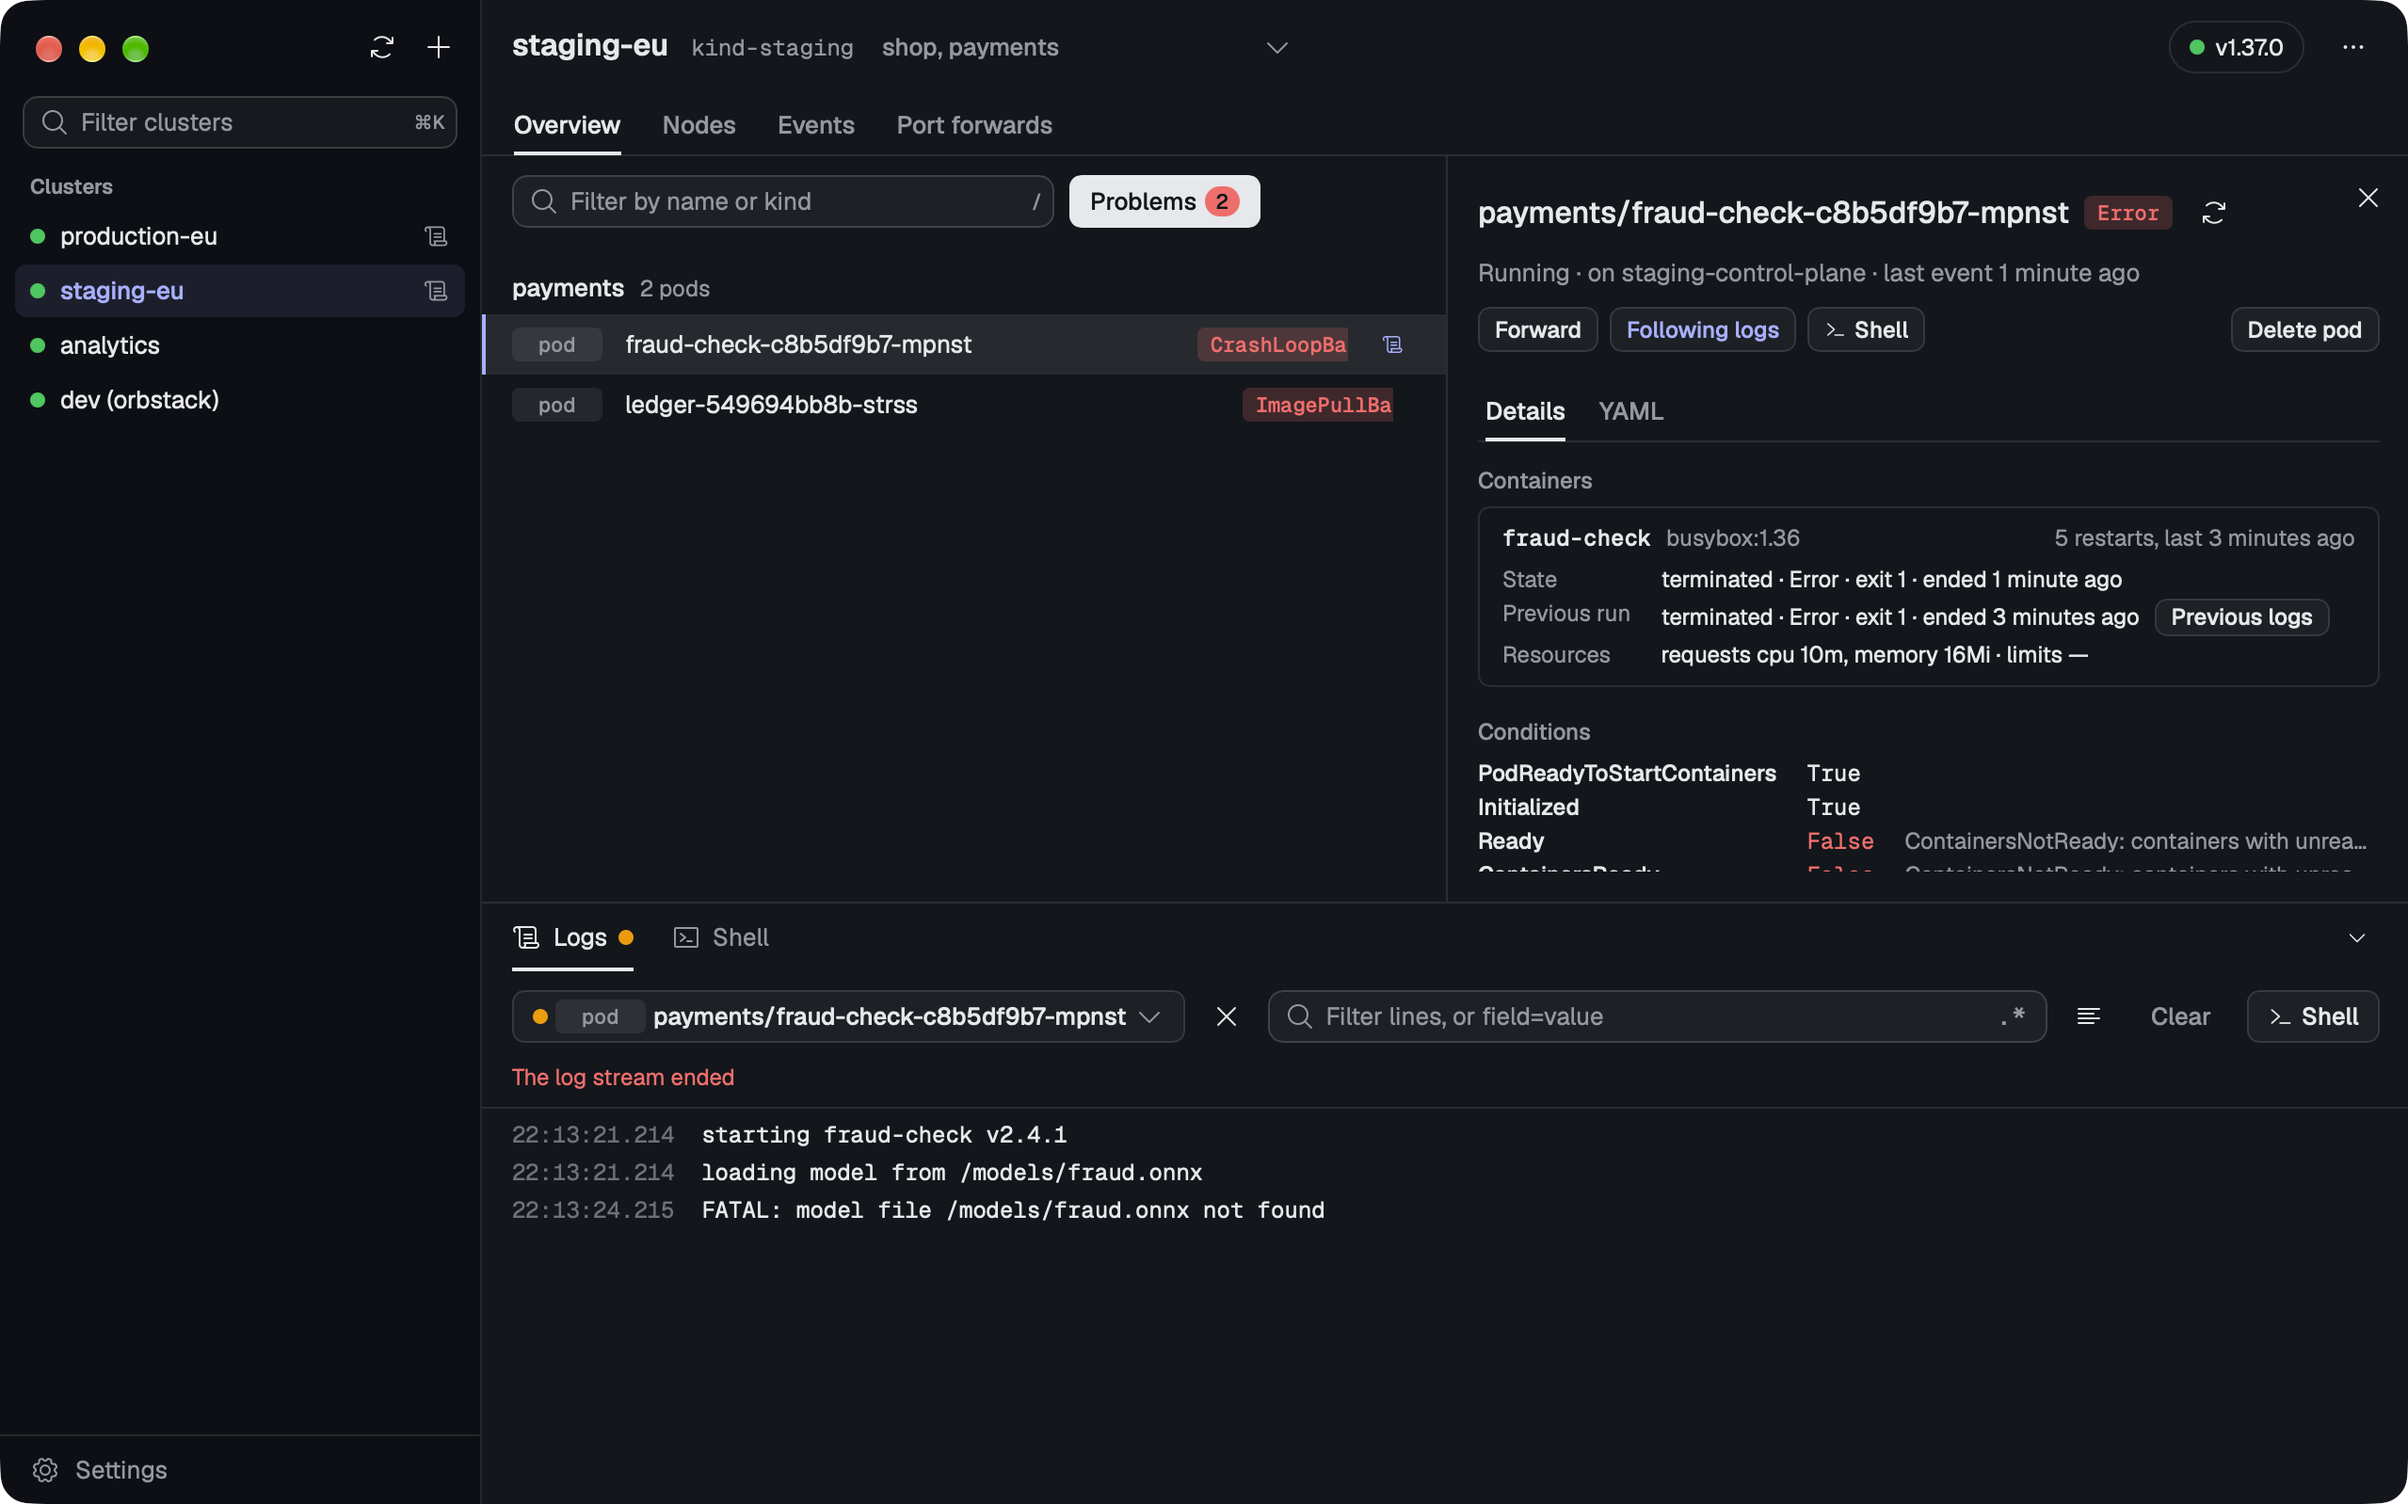
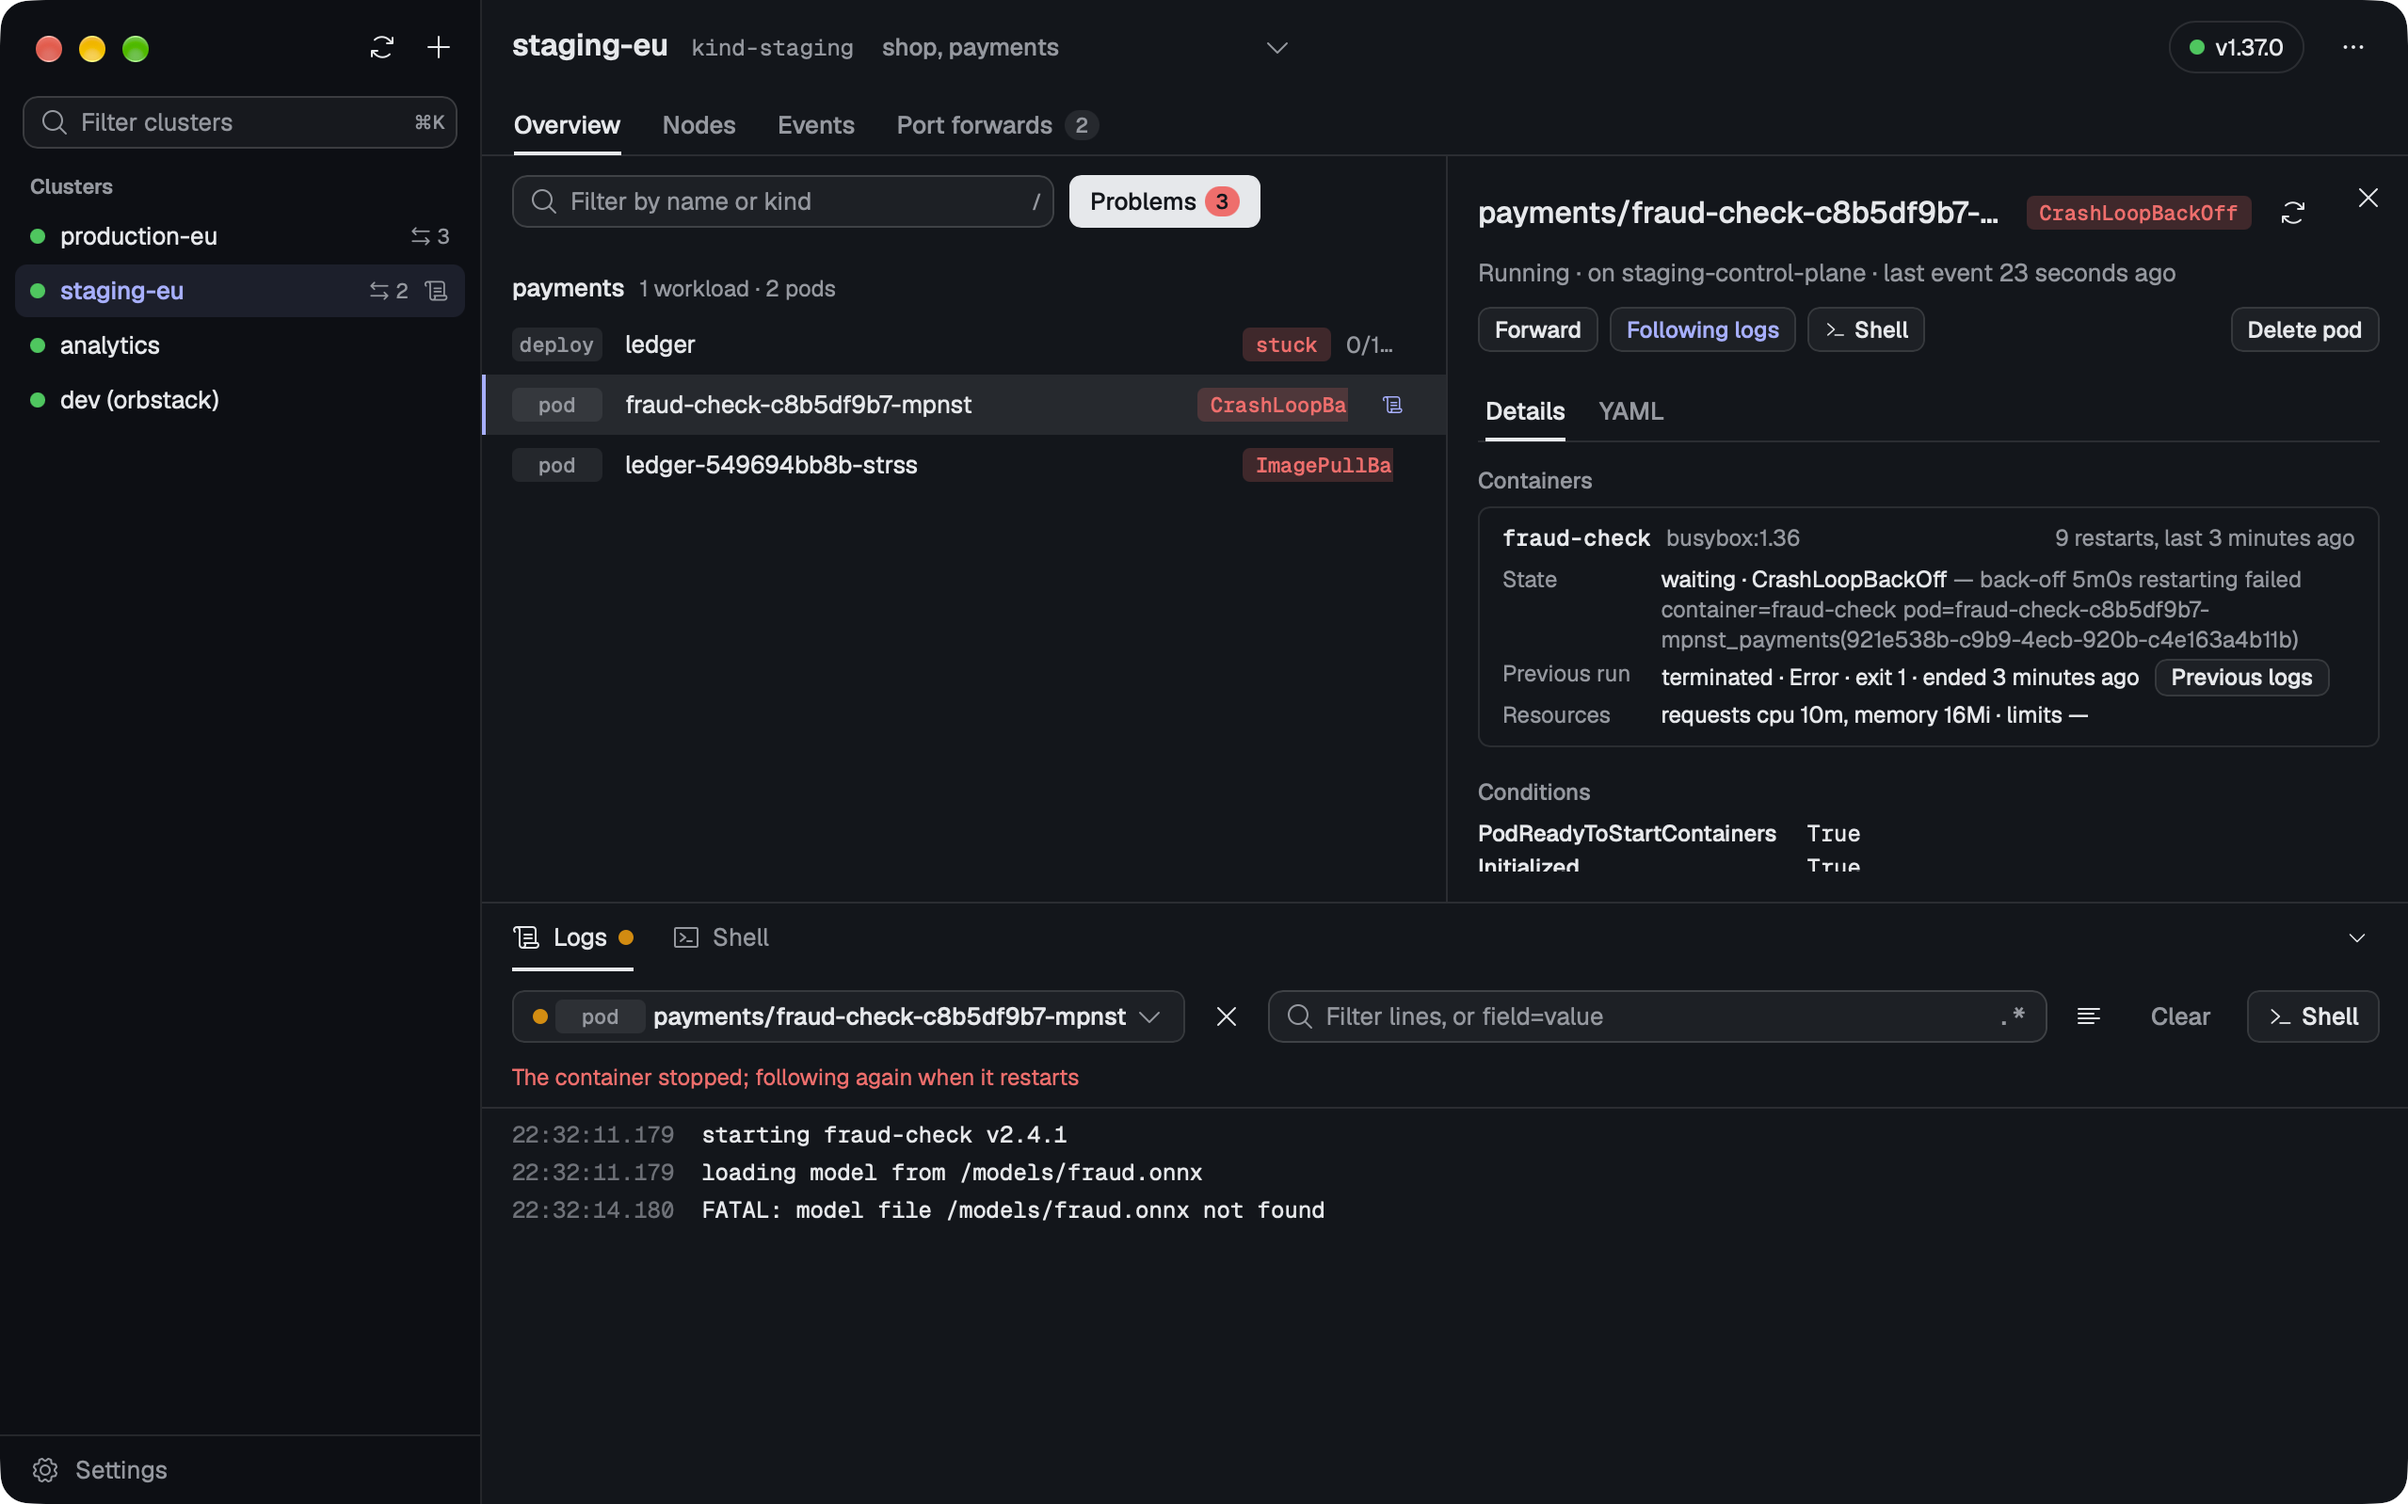
fix(logs): say the container stopped instead of the log stream ended

diff --git a/internal/service/logs.go b/internal/service/logs.go
@@ -444,7 +444,7 @@ func (s *Service) followContainer(ctx context.Context, lc *logConn, pods corev1c
 			backoff = time.Second
 		}
 		if lc.dropped(pod) {
-			s.setLogState(lc, StateReconnecting, cmp.Or(err, errLogsEnded))
+			s.setLogState(lc, StateReconnecting, cmp.Or(err, errContainerStopped))
 		}
 		// A Route that is down, or a container still waiting to start (400), is polled every second so the
 		// stream starts as soon as it can.
@@ -463,7 +463,9 @@ func (s *Service) followContainer(ctx context.Context, lc *logConn, pods corev1c
 	}
 }
 
-var errLogsEnded error = &userError{msg: "The log stream ended"}
+// errContainerStopped is why a body ends without an error: almost always the container exiting, as in a crash loop.
+// The API server closing an idle stream ends it the same way, and is followed again within a second.
+var errContainerStopped error = &userError{msg: "The container stopped; following again when it restarts"}
 
 func (lc *logConn) markTerminating(pod *corev1.Pod) {
 	if pod.DeletionTimestamp == nil {
